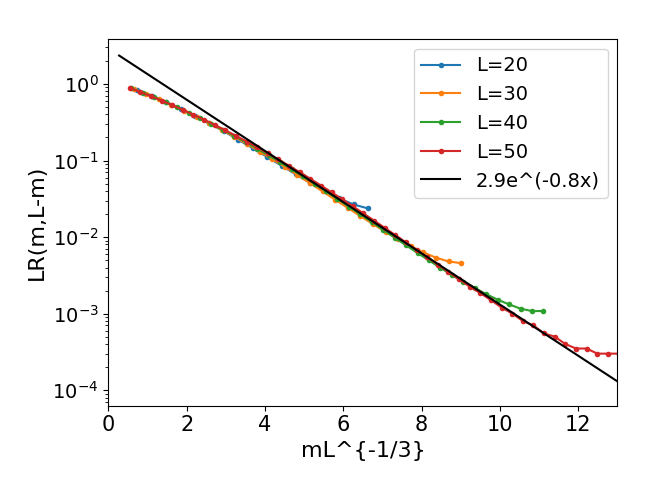
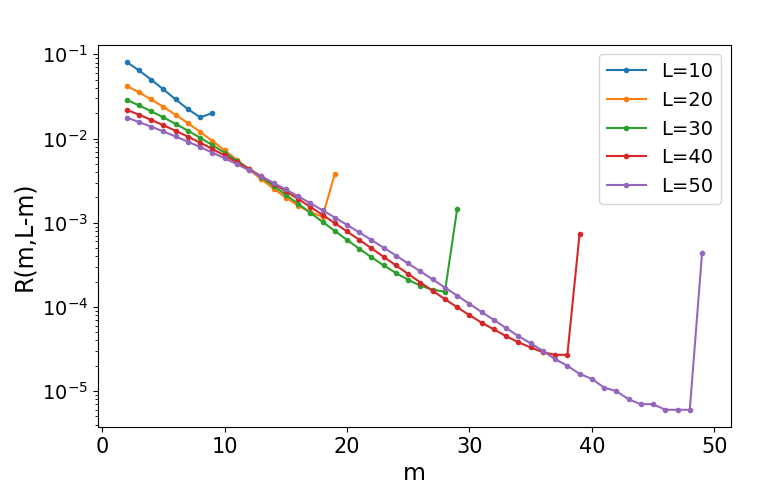
code saved

diff --git a/complete_graph/L8_confi_dat/L8/Asym_cluster_dynamics.cpp b/complete_graph/L8_confi_dat/L8/Asym_cluster_dynamics.cpp
@@ -14,10 +14,9 @@ using std::exp;
 using std::pow;
 using std::tanh;
 
-void cluster_size_distribution(vector<int> &g_info, vector<double> &c_dist, int N) {
+void cluster_size_distribution(vector<int> &g_info, vector<double> &c_dist) {
 	std::unordered_map<int, int> freq;
 	for (int num : g_info) freq[num]++;
-	
 	std::unordered_map<int, int> freq_of_freq;
 	for (const auto& pair : freq) freq_of_freq[pair.second]++;
 
@@ -29,12 +28,16 @@ void cluster_size_distribution(vector<int> &g_info, vector<double> &c_dist, int 
 }
 
 double R(int m, int n) {
-	double prob = (2.5*exp(-((double)(m-1)/pow((double)(m+n), 0.4))) - 1.5*exp(-1.5*(double)(m-1)/pow((double)(m+n), 0.4)))/(double)(m+n);
+	double prob;
+	if (n > 1) {
+		prob = ((1.0 + exp((double)(-n)/pow((double)(m+n),0.4)))*(2.5*exp(-(double)(m-1)/pow((double)(m+n),0.4)) -1.5*exp(-1.5*(double)(m-1)/pow((double)(m+n),0.4))) / (double)(m+n));
+	}
+	else if (n == 1) prob = 2.80*pow((double)m, -2.24);
 	return prob;
 }
 
 double P(int m, int n) {
-	double prob = 1.0/((double)m + 2.4*pow((double)(m+n),1.0/3.0)*(1-tanh(0.31*(double)m*pow((double)(m+n), -1.0/3.0))));
+	double prob = 1.0/((double)m + 2.4*pow((double)(m+n),1.0/3.0)*(1.0-tanh(0.31*(double)m*pow((double)(m+n), -1.0/3.0))));
 	return prob;
 }
 
@@ -112,7 +115,6 @@ void MC_cluster(vector<double> &c_dist, int N, int MCS, int init_option) {
 			if (m_idx != n_idx and m != 1) {
 				if (dist_u(gen) <= P(m,n)) Fragmentation(g_info, o);
 				else if (dist_u(gen) > P(m,n) && dist_u(gen) <= P(m,n) + R(m,n)) Migration(g_info, o, d);
-				//cout << m << ", "  << n << " : " << P(m,n) << ", " << R(m,n) << ", " << P_star(m) << ", " << Q(n) << "\n";
 			}
 			else if (m_idx != n_idx and m==1) {
 				if (dist_u(gen) <= Q(n)) Migration(g_info, o, d);
@@ -120,9 +122,18 @@ void MC_cluster(vector<double> &c_dist, int N, int MCS, int init_option) {
 			else if (m_idx == n_idx and m!=1) {
 				if (dist_u(gen) <= P_star(m)) Fragmentation(g_info, o);
 			}
+			//cout << m << ", "  << n << " : " << P(m,n) << ", " << R(m,n) << ", " << P_star(m) << ", " << Q(n) << "\n";
 		}
 	}
-	cluster_size_distribution(g_info, c_dist, N);
+	cluster_size_distribution(g_info, c_dist);
+	
+	//int count_max_cluster = 0;
+	//for (int i=0; i<N; i++) {
+	//		cout << g_info[i] << " ";
+	//		if (g_info[i] == 0) count_max_cluster += 1;
+	//}
+	//
+	//if (init_option == 0) cout << "\n" << count_max_cluster;
 }
 
 int main(int argc, char *argv[]) {
@@ -137,7 +148,8 @@ int main(int argc, char *argv[]) {
 		int init_option = atoi(argv[3]);
     
     vector<double> c_dist(N+1, 0);
-		
+		//cout << R(14,2) << "\n";
+		//cout << R(14,1) << "\n";
 		MC_cluster(c_dist, N, MCS, init_option);
 		for (int k=0; k<N+1; k++) cout << c_dist[k] << " ";
 		cout << "\n";

diff --git a/complete_graph/L8_confi_dat/L8/plot_P.py b/complete_graph/L8_confi_dat/L8/plot_P.py
@@ -4,29 +4,27 @@ from scipy.optimize import curve_fit
 import sys
 
 N_max = 50
-A = float(sys.argv[1])
-a = float(sys.argv[2])
 
 R_dat = np.loadtxt("./L8-prob-R.dat")
 P_dat = np.loadtxt("./L8-prob-P.dat")
 
-for N in np.arange(20,N_max+10,10):
+for N in np.arange(10,N_max+10,10):
 	m_arr = []; R = []; R = []; P = []
-	for m in range(2, N-1):
+	for m in range(2, N):
 		m_arr.append(m)
 		R.append(R_dat[m,N-m])
 	m_list = np.array(m_arr); R_list = np.array(R);
-	plt.plot(m_list*np.power(N,-1/3), N*R_list, marker='.', label="L={}".format(N))
-	def fn(m):
-		return A*np.exp(-a*m)
+	plt.plot(m_list, R_list, marker='.', label="L={}".format(N))
+	#def fn(m):
+	#	return (1+np.exp((m-N)/N**0.4))*(2.5*np.exp(-1.0*(m-1)/N**0.4)-1.5*np.exp(-1.5*(m-1)/N**0.4)) / N
+
+	#plt.plot(m_list, fn(m_list), color='black')
 	
-plt.plot(np.arange(1,N_max,1)*np.power(N,-1/3), fn(np.arange(1,N_max,1)*np.power(N,-1/3)), color='black', label="{:.1f}e^(-{:.2f}x)".format(A,a))
 plt.legend(fontsize=14)
 plt.xticks(fontsize=15)
 plt.yticks(fontsize=14)
-plt.xlabel("mL^{-1/3}", fontsize=16)
-plt.ylabel("LR(m,L-m)", fontsize=16)
+plt.xlabel("m", fontsize=17)
+plt.ylabel("R(m,L-m)", fontsize=17)
 #plt.xscale('log')
 plt.yscale('log')
-plt.xlim([0,13])
 plt.show()	

diff --git a/complete_graph/L8_confi_dat/L8/plot_R1.py b/complete_graph/L8_confi_dat/L8/plot_R1.py
@@ -1,0 +1,33 @@
+import numpy as np
+import matplotlib.pyplot as plt
+from scipy.optimize import curve_fit
+import sys
+
+N_max = 50
+sl = 10
+R_dat = np.loadtxt("./L8-prob-R.dat")
+P_dat = np.loadtxt("./L8-prob-P.dat")
+
+m_arr = []; R = [];
+for m in np.arange(2,N_max):
+	m_arr.append(m)
+	R.append(R_dat[m,1])
+	m_list = np.array(m_arr); R_list = np.array(R);
+plt.plot(m_list, R_list, marker='.')
+
+def fn(m, a, b):
+	return a*np.power(m,-b)
+popt, cov = curve_fit(fn, m_list[sl:], R_list[sl:])
+plt.plot(m_list, fn(m_list, *popt), marker='.', label="{:.2f}m^{:.2f}".format(popt[0], popt[1]))
+
+print(popt[0], " ", popt[1])
+print(fn(14, *popt))
+
+plt.legend(fontsize=15)
+plt.xticks(fontsize=15)
+plt.yticks(fontsize=14)
+plt.xlabel("m", fontsize=17)
+plt.ylabel("R(m,1)", fontsize=17)
+plt.xscale('log')
+plt.yscale('log')
+plt.show()	
